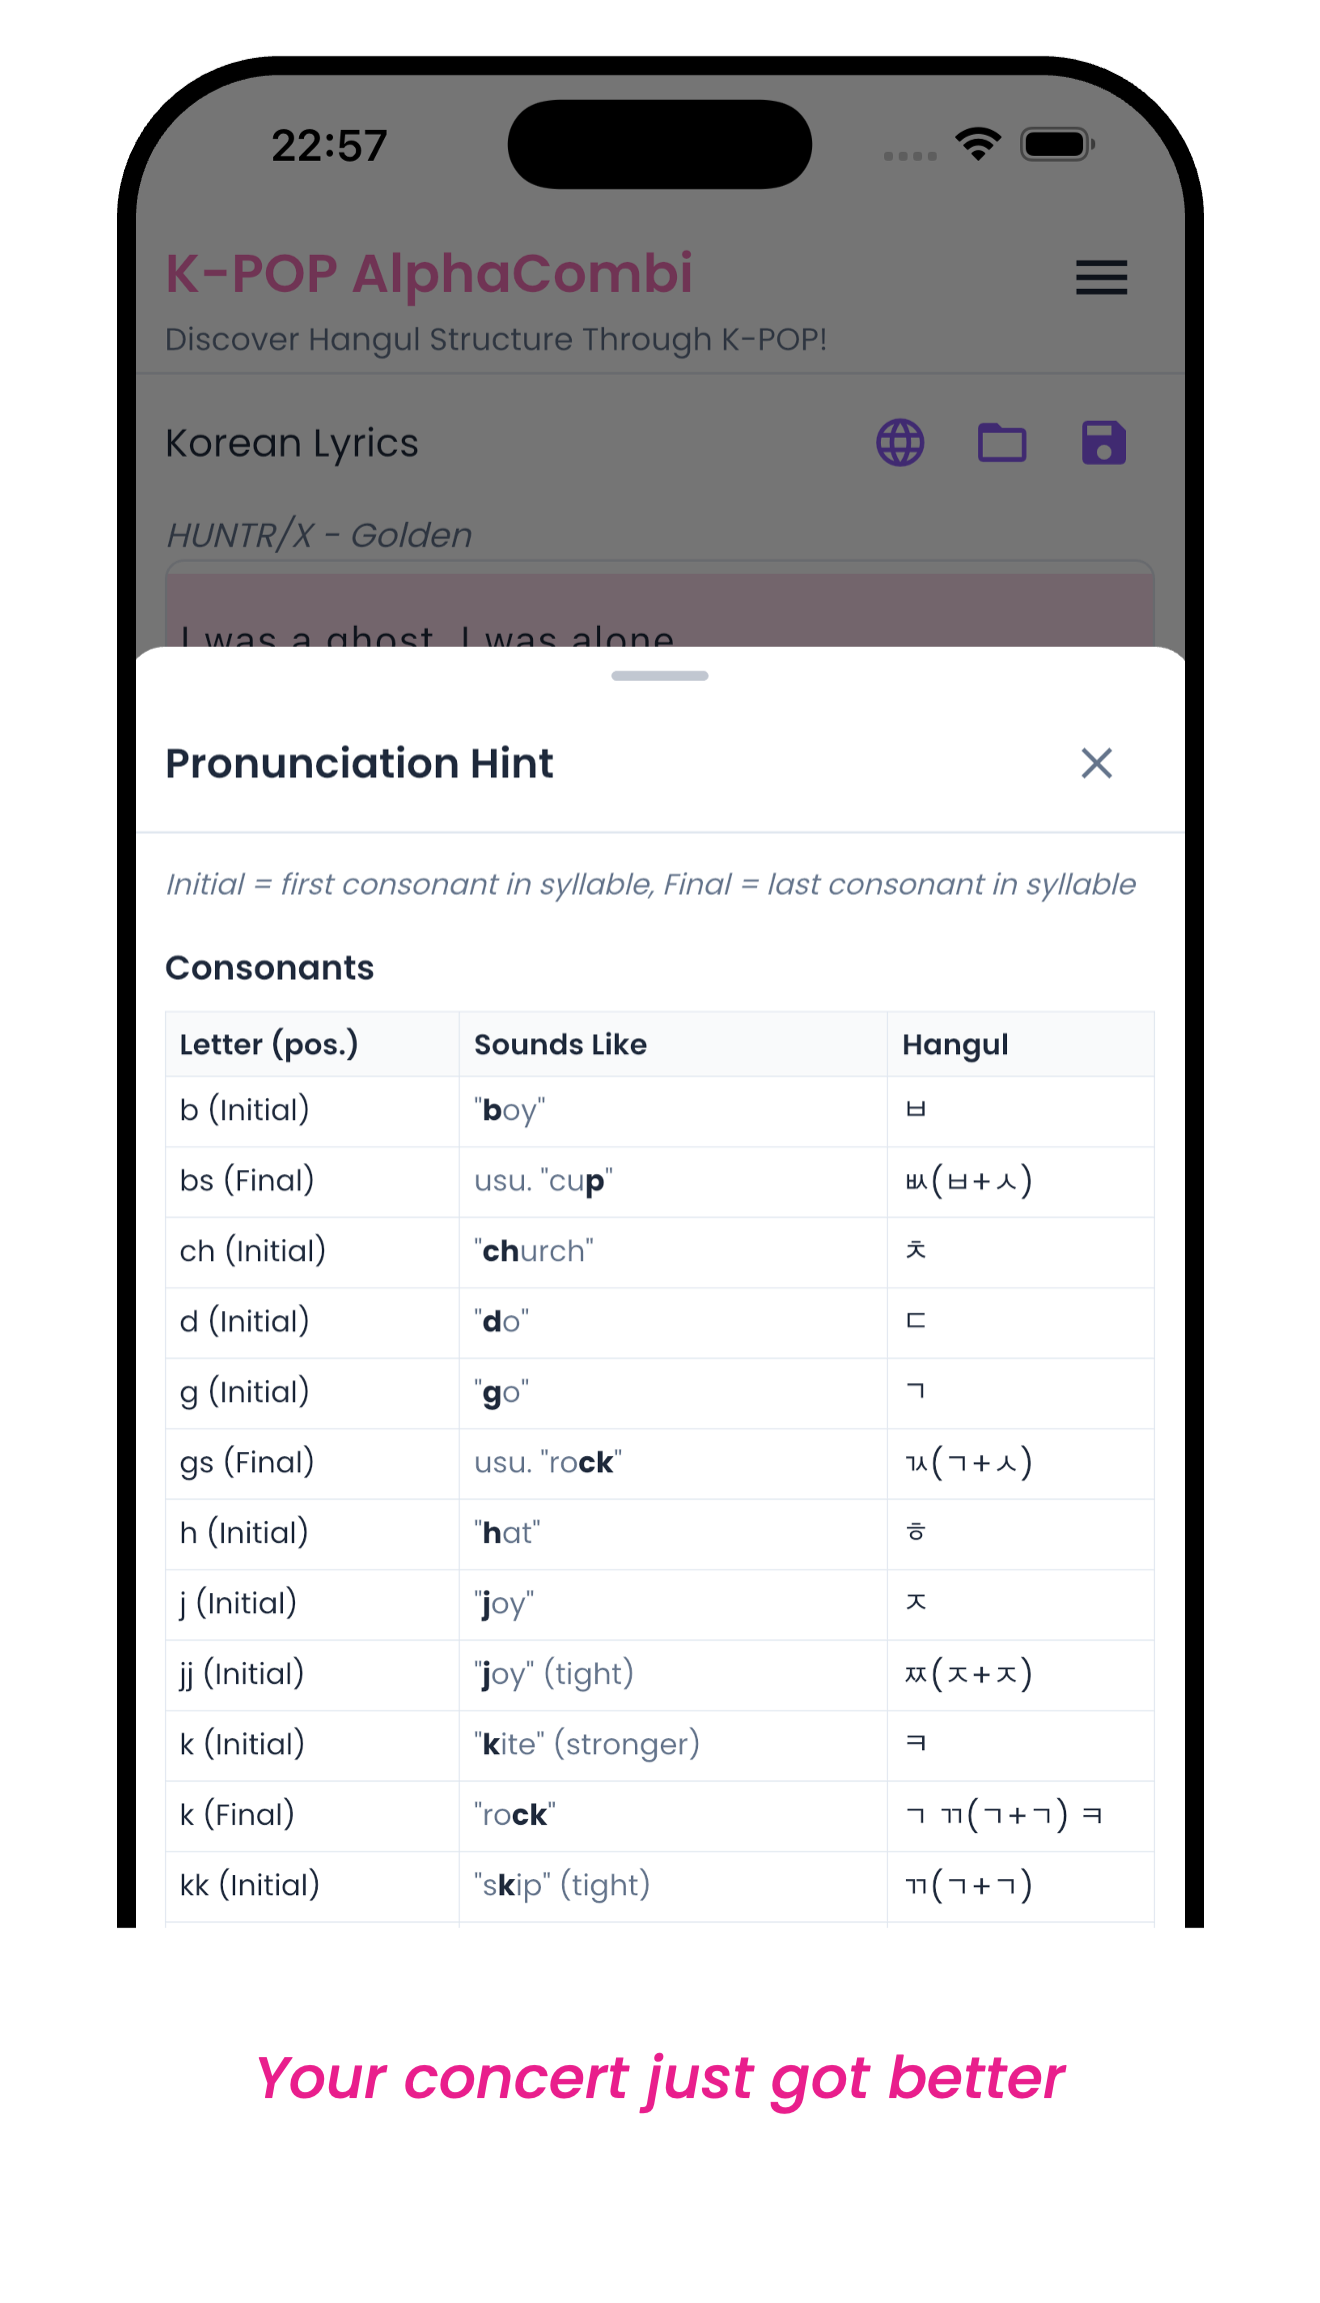
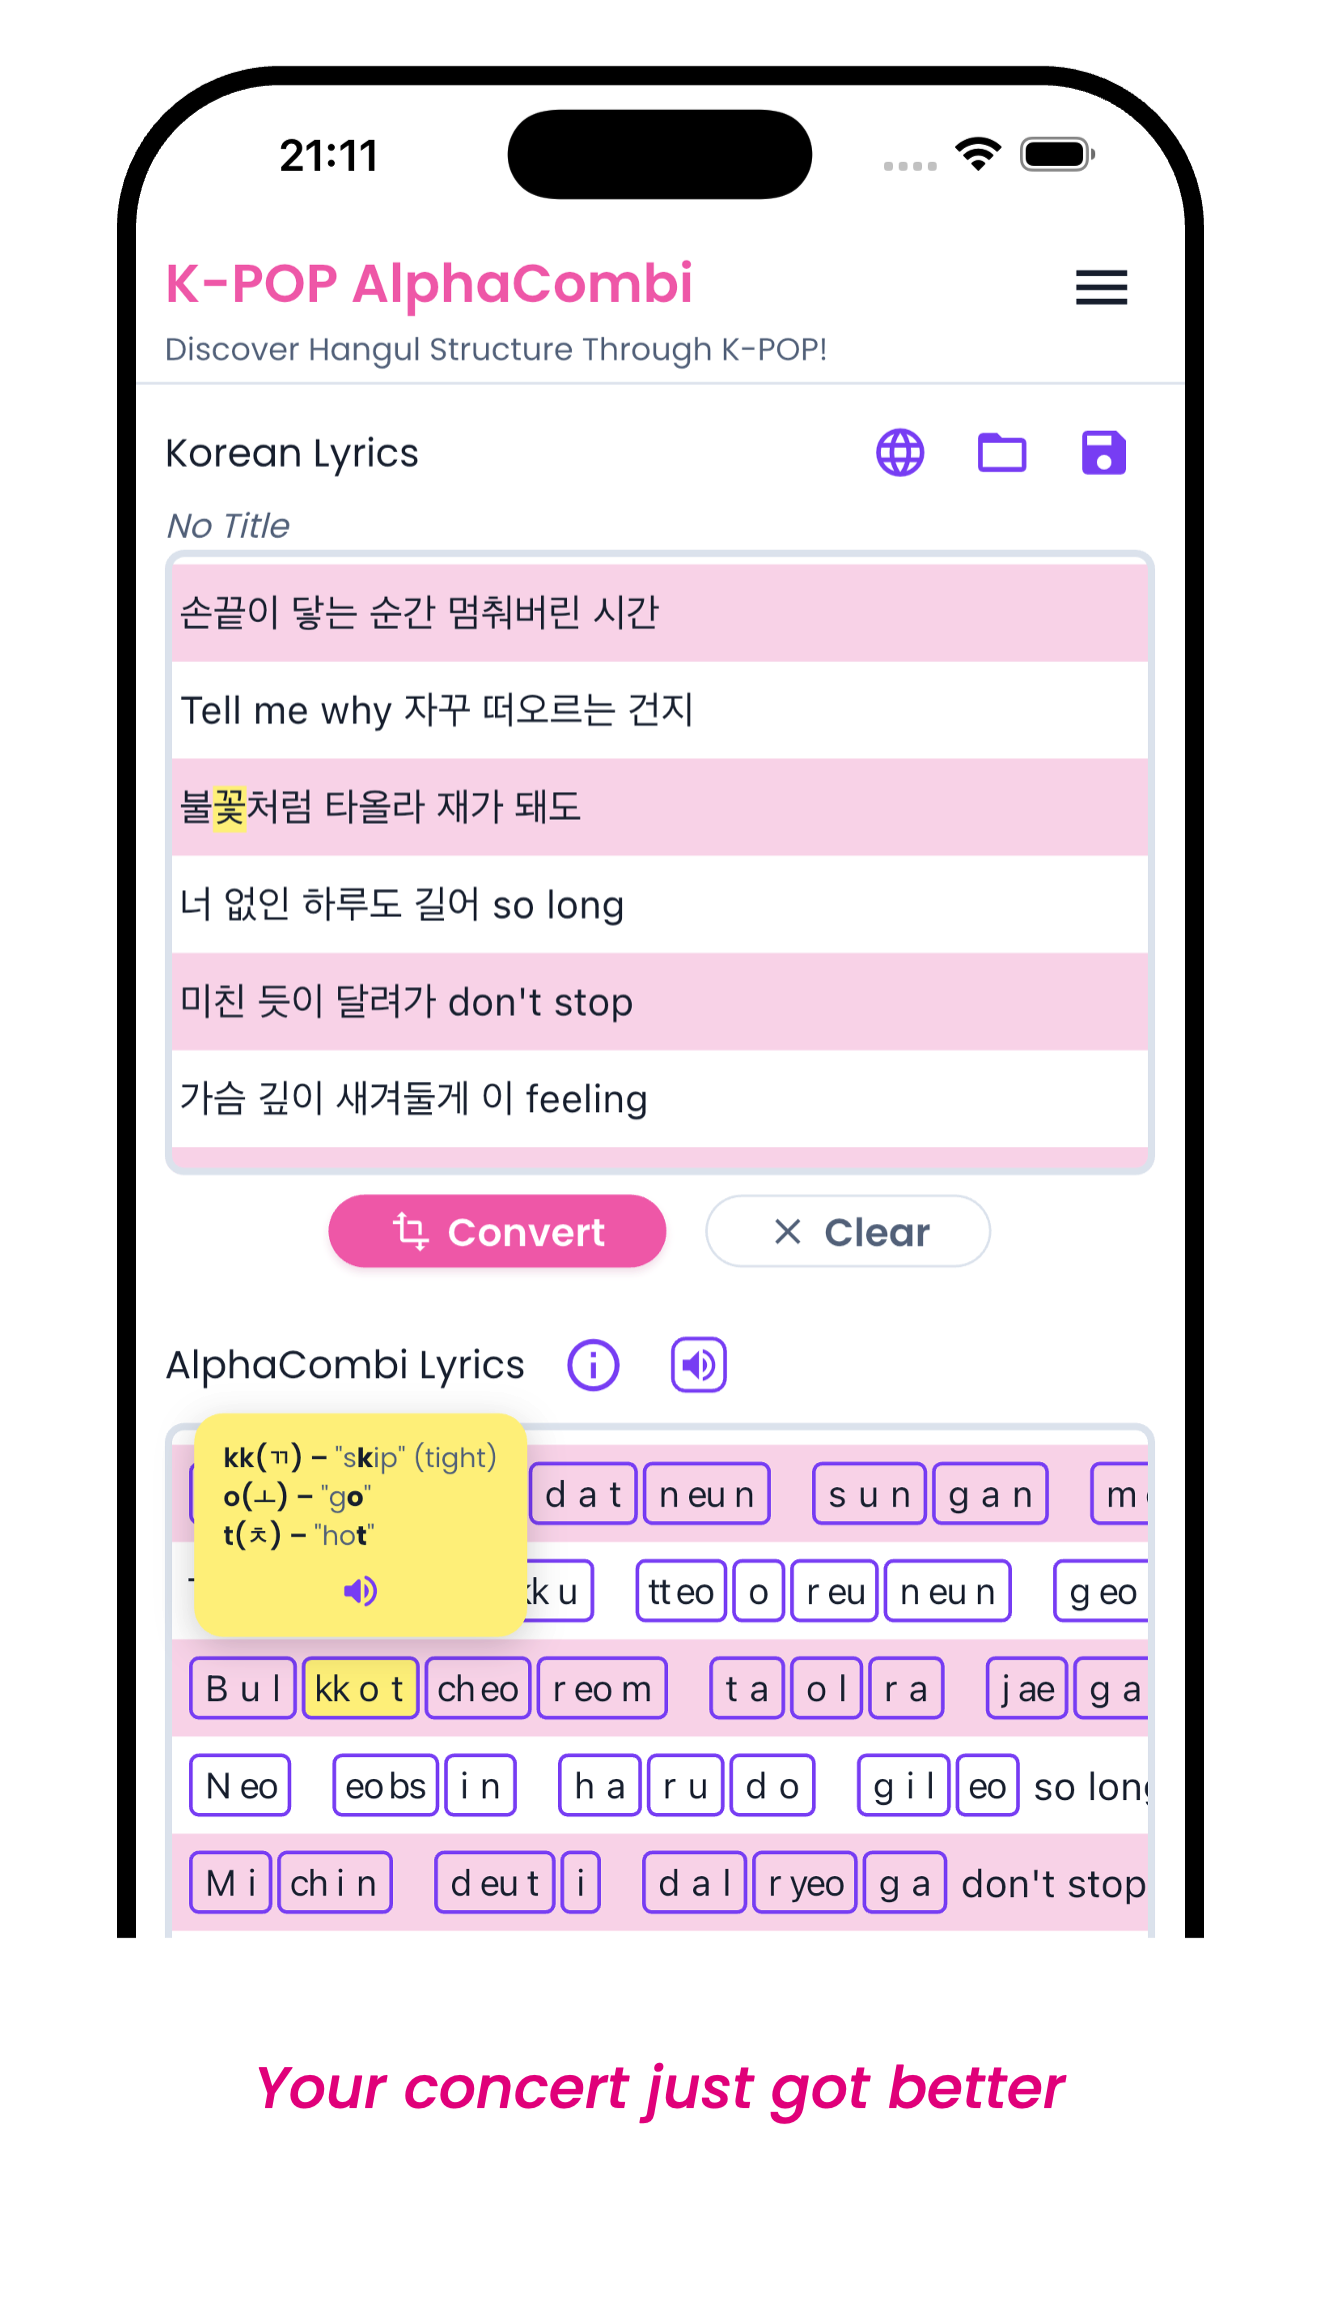
발음차트 이미지 및 하단 설명 수정: 풍선도움말 이미지 사용

diff --git a/k-alphacombi/index.html b/k-alphacombi/index.html
@@ -159,8 +159,9 @@
                         <img src="images/ss-pronunciation.png" alt="Pronunciation hint bottom sheet" class="feature-img"
                             loading="lazy">
                     </div>
-                    <h3>Pronunciation Hint</h3>
-                    <p>Not sure how to say it? Tap ⓘ for instant pronunciation hints based on English words.</p>
+                    <h3>Hear & Sound Hints</h3>
+                    <p>Not sure how to say it? Tap or hold a AlphaCombi box for hints. Also tap ⓘ for the quick
+                        pronunciation hints chart based on English sounds.</p>
                 </div>
                 <div class="feature-card">
                     <div class="feature-img-wrap feature-img-cover">
